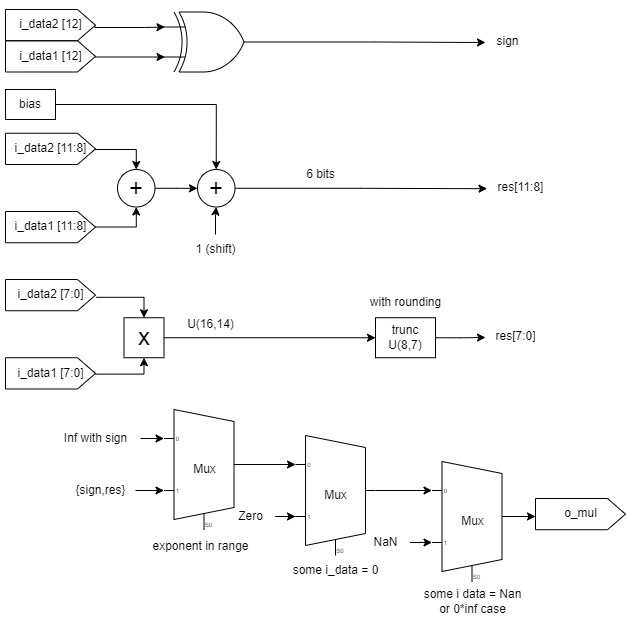
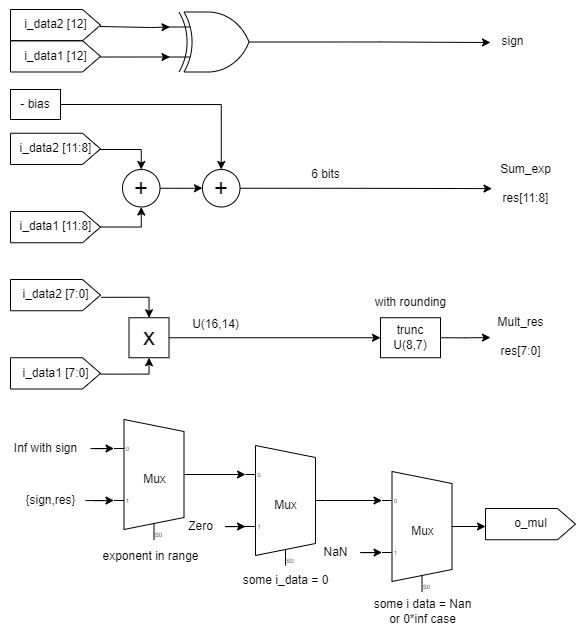
ej1 documentation generated

diff --git a/codigos/GP02/ej1/README.md b/codigos/GP02/ej1/README.md
@@ -4,7 +4,7 @@
 - **Author:** Agustin Matias Ortiz (aortiz@frba.utn.edu.ar)
 - **Version:** 1.0
 - **Date:** 24/09/2022
-- **Brief:** Floating point multiplier that considers all of use, including NaN and infinities.
+- **Brief:** Unsigned accumulator with adder input selection
 - **Details:** Multiplier of values whose format is: 
 ## Diagram
 
@@ -31,7 +31,7 @@
 | Sign       | wire              | Calculation of sign of result |
 | Mantissa   | reg         [7:0] | Truncation of multiplication  |
 | Mult_res   | wire [15:0]       | Res of multiplication only    |
-| Sum_exp    | wire [6:0]        | Sum of exponent + bias        |
+| Sum_exp    | wire [5:0]        | Sum of exponent - bias        |
 | Nan_check  | wire              | Check if result must be NaN   |
 | Zero_check | wire              | Check if result must be zero  |
 ## Constants
@@ -47,6 +47,7 @@
   - **Type:** always
   - **Description**
   Truncation, U(8.7) with rounding 
+
 - exp_calc: ( @(*) )
   - **Type:** always
   - **Description**
